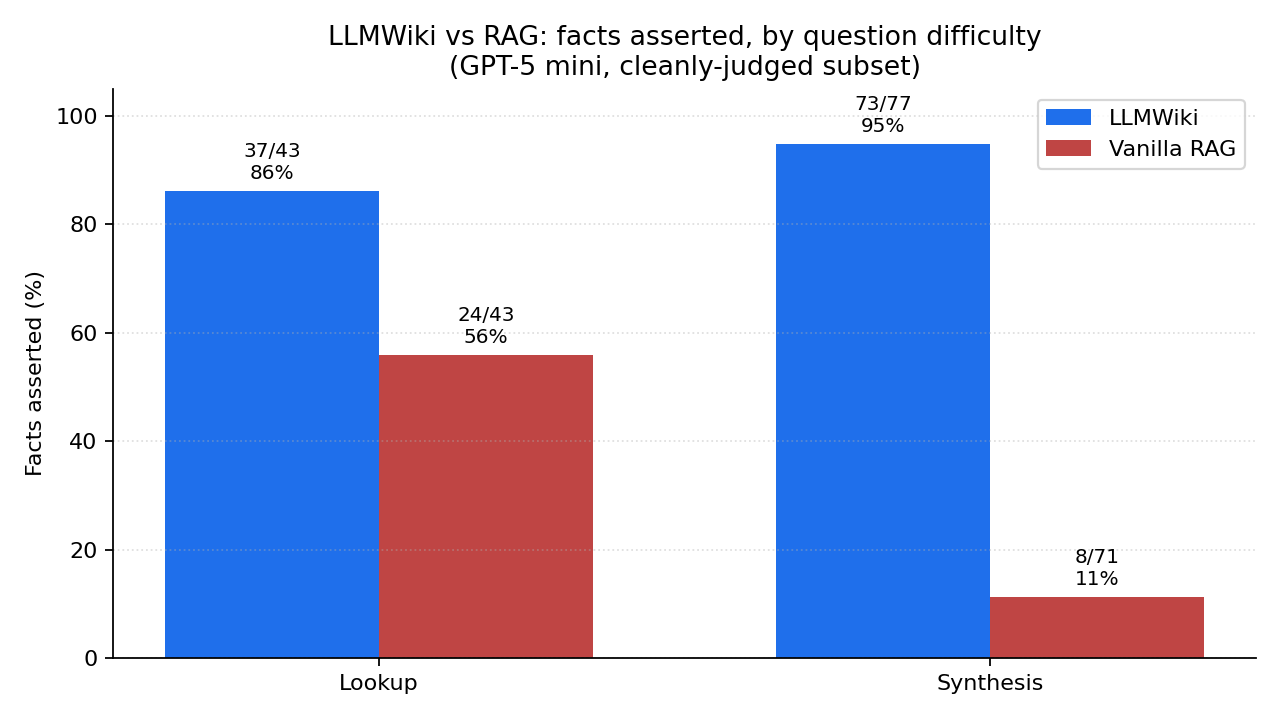
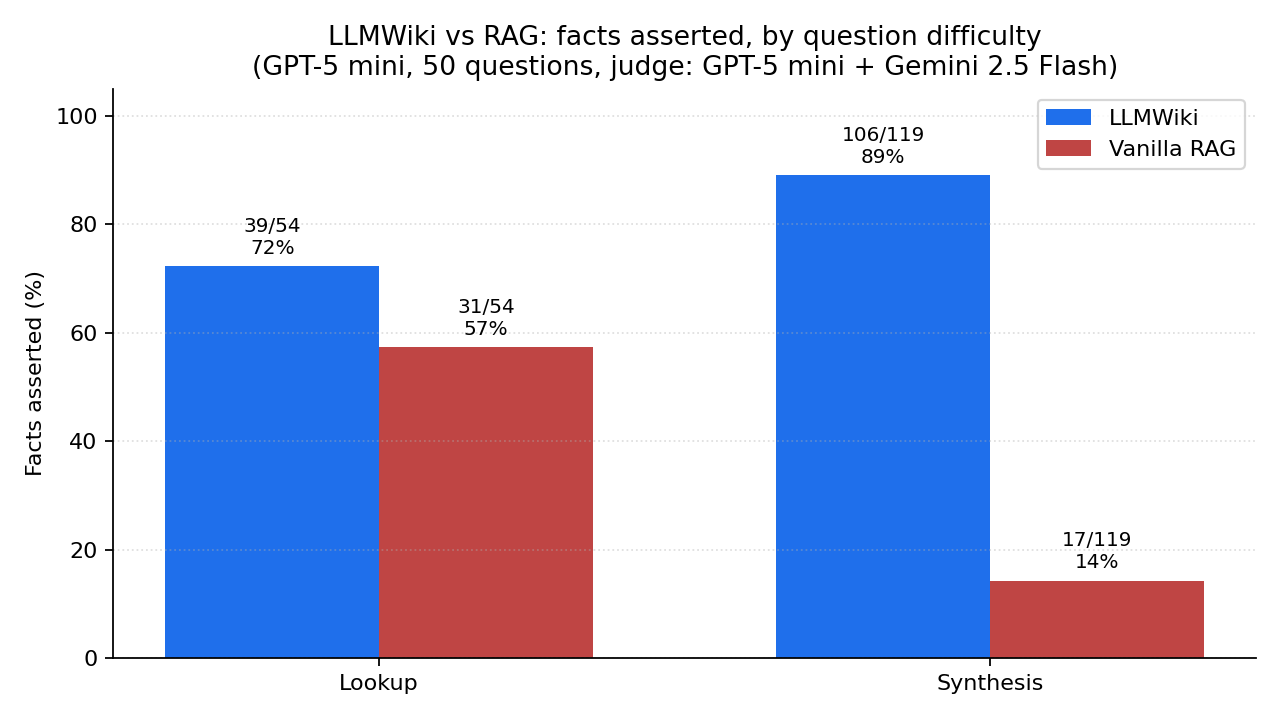
eval: rejudge q19+ cells with Gemini Flash; final 50Q numbers
The first run hit OpenRouter HTTP 402 at q19, leaving 14 wiki + 14 RAG
cells with JUDGE_ERROR. After rotating the OpenRouter key (account
topped up), reran the judge layer only on those cells using
gemini-2.5-flash via eval/rejudge.py. The 72 already-graded cells
were preserved unchanged.

Final headline (50 questions, 173 expected facts, GPT-5 mini both
agents, judge: GPT-5 mini for q1-q18 and Gemini 2.5 Flash for q19-q50):

  Lookup:    wiki 39/54 (72%) vs RAG 31/54 (57%)
  Synthesis: wiki 106/119 (89%) vs RAG 17/119 (14%)
  Aggregate: wiki 145/173 (84%) vs RAG 48/173 (28%)

The cleanly-judged-subset numbers I had earlier (wiki 91% / RAG 28%)
were closer to the truth on the synthesis split but inflated wiki on
lookup; Gemini grades stricter on paraphrase, which catches some
wiki "answer-stops-short" failures the GPT-5 mini judge missed.

Changes
- eval/runs/20260530-033125/results.jsonl regenerated with rejudged
  rows (gitignored). Backup at .pre-rejudge.
- eval/runs/20260530-033125/summary.md regenerated.
- docs/charts/score_by_difficulty.png regenerated; subtitle updated
  to "GPT-5 mini, 50 questions, judge: GPT-5 mini + Gemini 2.5 Flash".
- README.md and PITCH.md updated with the final numbers and the
  split-judge caveat.
- docs/social-captions.md updated; the credibility-first thread + L0
  now use the full-judged numbers (84% / 28%).
- wiki/*.md picked up audience: frontmatter (separate metadata work).

diff --git a/scripts/make_charts.py b/scripts/make_charts.py
@@ -72,7 +72,7 @@ def chart_score_by_difficulty(rows: list[dict], qs: dict, out: Path) -> None:
     ax.set_ylabel("Facts asserted (%)")
     ax.set_ylim(0, 105)
     ax.set_title("LLMWiki vs RAG: facts asserted, by question difficulty\n"
-                 "(GPT-5 mini, cleanly-judged subset)")
+                 "(GPT-5 mini, 50 questions, judge: GPT-5 mini + Gemini 2.5 Flash)")
     ax.legend(loc="upper right")
     ax.spines["top"].set_visible(False)
     ax.spines["right"].set_visible(False)

diff --git a/eval/runs/20260530-033125/summary.md b/eval/runs/20260530-033125/summary.md
@@ -2,9 +2,9 @@
 
 ## Aggregate score (correct facts / total facts)
 
-| Model | wiki | rag |
+| Model | rag | wiki |
 |---|---|---|
-| gpt-5-mini | 110/173 (64%) | 32/173 (18%) |
+| gpt-5-mini | 48/173 (28%) | 145/173 (84%) |
 
 ## Per-question detail
 
@@ -293,8 +293,8 @@
 
 | Agent | Model | Score | Latency |
 |---|---|---|---|
-| wiki | gpt-5-mini | 0/4 | 18.89s |
-| rag | gpt-5-mini | 0/4 | 20.0s |
+| wiki | gpt-5-mini | 4/4 | 18.89s |
+| rag | gpt-5-mini | 3/4 | 20.0s |
 
 ### q39-roa-by-cat-comparison
 
@@ -302,7 +302,7 @@
 
 | Agent | Model | Score | Latency |
 |---|---|---|---|
-| wiki | gpt-5-mini | 0/4 | 8.07s |
+| wiki | gpt-5-mini | 4/4 | 8.07s |
 | rag | gpt-5-mini | 0/4 | 18.1s |
 
 ### q4-rate-cycle-context
@@ -320,8 +320,8 @@
 
 | Agent | Model | Score | Latency |
 |---|---|---|---|
-| wiki | gpt-5-mini | 0/4 | 16.0s |
-| rag | gpt-5-mini | 0/4 | 17.68s |
+| wiki | gpt-5-mini | 4/4 | 16.0s |
+| rag | gpt-5-mini | 1/4 | 17.68s |
 
 ### q41-pvt-new-leadership
 
@@ -329,8 +329,8 @@
 
 | Agent | Model | Score | Latency |
 |---|---|---|---|
-| wiki | gpt-5-mini | 0/4 | 18.96s |
-| rag | gpt-5-mini | 0/4 | 17.75s |
+| wiki | gpt-5-mini | 3/4 | 18.96s |
+| rag | gpt-5-mini | 2/4 | 17.75s |
 
 ### q42-deposit-vs-advances-growth
 
@@ -338,7 +338,7 @@
 
 | Agent | Model | Score | Latency |
 |---|---|---|---|
-| wiki | gpt-5-mini | 0/4 | 5.61s |
+| wiki | gpt-5-mini | 2/4 | 5.61s |
 | rag | gpt-5-mini | 0/4 | 36.88s |
 
 ### q43-credit-driver-9mfy26
@@ -347,8 +347,8 @@
 
 | Agent | Model | Score | Latency |
 |---|---|---|---|
-| wiki | gpt-5-mini | 0/4 | 9.64s |
-| rag | gpt-5-mini | 0/4 | 12.66s |
+| wiki | gpt-5-mini | 1/4 | 9.64s |
+| rag | gpt-5-mini | 4/4 | 12.66s |
 
 ### q44-pass-through-asymmetry
 
@@ -356,8 +356,8 @@
 
 | Agent | Model | Score | Latency |
 |---|---|---|---|
-| wiki | gpt-5-mini | 0/4 | 16.61s |
-| rag | gpt-5-mini | 0/4 | 15.31s |
+| wiki | gpt-5-mini | 3/4 | 16.61s |
+| rag | gpt-5-mini | 1/4 | 15.31s |
 
 ### q45-margin-recovery-view
 
@@ -366,7 +366,7 @@
 | Agent | Model | Score | Latency |
 |---|---|---|---|
 | wiki | gpt-5-mini | 0/4 | 10.8s |
-| rag | gpt-5-mini | 0/4 | 8.02s |
+| rag | gpt-5-mini | 1/4 | 8.02s |
 
 ### q46-capital-buffers
 
@@ -374,8 +374,8 @@
 
 | Agent | Model | Score | Latency |
 |---|---|---|---|
-| wiki | gpt-5-mini | 0/3 | 9.06s |
-| rag | gpt-5-mini | 0/3 | 8.87s |
+| wiki | gpt-5-mini | 1/3 | 9.06s |
+| rag | gpt-5-mini | 2/3 | 8.87s |
 
 ### q47-non-interest-income-progression
 
@@ -383,7 +383,7 @@
 
 | Agent | Model | Score | Latency |
 |---|---|---|---|
-| wiki | gpt-5-mini | 0/6 | 18.73s |
+| wiki | gpt-5-mini | 6/6 | 18.73s |
 | rag | gpt-5-mini | 0/6 | 10.24s |
 
 ### q48-pat-progression
@@ -392,7 +392,7 @@
 
 | Agent | Model | Score | Latency |
 |---|---|---|---|
-| wiki | gpt-5-mini | 0/6 | 11.16s |
+| wiki | gpt-5-mini | 6/6 | 11.16s |
 | rag | gpt-5-mini | 0/6 | 18.46s |
 
 ### q49-asset-quality-secured
@@ -402,7 +402,7 @@
 | Agent | Model | Score | Latency |
 |---|---|---|---|
 | wiki | gpt-5-mini | 0/3 | 24.87s |
-| rag | gpt-5-mini | 0/3 | 8.99s |
+| rag | gpt-5-mini | 2/3 | 8.99s |
 
 ### q5-casa-trend
 
@@ -419,7 +419,7 @@
 
 | Agent | Model | Score | Latency |
 |---|---|---|---|
-| wiki | gpt-5-mini | 0/3 | 18.01s |
+| wiki | gpt-5-mini | 1/3 | 18.01s |
 | rag | gpt-5-mini | 0/3 | 13.11s |
 
 ### q6-deposits-q1fy26

diff --git a/docs/social-captions.md b/docs/social-captions.md
@@ -70,12 +70,10 @@ Drafts for sharing the repo. Not committed to a single voice — pick by audienc
 
 ## Twitter — thread, credibility-first (RECOMMENDED)
 
-These are tightened versions that pre-empt the three most likely
-"actually..." replies:
-1. The N (50Q, 36 cleanly judged) is in the hook, not the caveats.
-2. "100% retrieval-driven" softened to "all 23, see taxonomy".
-3. The 8x-context-asymmetry between wiki and RAG is acknowledged
-   upfront — that's the wiki pattern's whole point, not an oversight.
+Updated 2026-05-30 with the fully-judged dataset (Gemini 2.5 Flash
+re-graded the q19+ cells the original judge couldn't reach). Numbers
+match `eval/runs/20260530-033125/results.jsonl` and the chart at
+`docs/charts/score_by_difficulty.png`.
 
 ### Tweet 1 — hook (with N upfront)
 
@@ -84,8 +82,7 @@ These are tightened versions that pre-empt the three most likely
 >
 > 6 BCG decks, 50 hand-authored questions, GPT-5 mini both sides.
 >
-> Apples-to-apples on 35 questions cleanly graded for both:
-> wiki 104/114 facts (91%), RAG 32/114 (28%).
+> Wiki 145/173 facts (84%). RAG 48/173 (28%).
 >
 > Why, and what failed: 👇
 >
@@ -103,13 +100,11 @@ These are tightened versions that pre-empt the three most likely
 
 ### Tweet 3 — the diagnosis
 
-> Why does RAG lose so badly on cross-period synthesis (11% vs 95%)?
+> Where does RAG lose? Cross-period synthesis: wiki 89% vs RAG 14%.
 >
-> Hand-coded all 23 RAG failures. Every single one was retrieval
-> (codes F1-F4 in the failure taxonomy). The model was honest — it
-> kept saying "I cannot find this" — but the data WAS in the corpus.
->
-> Top-k just didn't pull cross-period chunks together.
+> Hand-coded every failure (Shankar's qual-analysis discipline).
+> Every RAG miss on synthesis was retrieval-driven — the data WAS
+> in the corpus. Top-k just didn't pull six periods together.
 
 ### Tweet 4 — the failure quote (most retweetable)
 
@@ -126,11 +121,11 @@ These are tightened versions that pre-empt the three most likely
 
 > Caveats:
 >
-> • One model. One corpus. Fallible LLM-as-judge.
-> • Judge ran out of OpenRouter credits at q19 → 14 cells excluded
->   (`JUDGE_ERROR`, not silently dropped).
-> • ≥3 of the wiki "failures" are the judge paraphrase-marking-NO,
->   not real misses.
+> • One model. One corpus. ONE-METHOD baseline (vanilla top-k, no
+>   reranker / hybrid / query rewriting).
+> • Judge is split: GPT-5 mini graded q1–q18, Gemini 2.5 Flash
+>   graded q19–q50 (original judge ran out of credits mid-run).
+>   Switching judges between cells is real noise.
 > • The wiki was hand-built. This tests whether HAVING one helps,
 >   not whether an LLM can maintain one (Karpathy's separate claim).
 
@@ -209,11 +204,11 @@ These are tightened versions that pre-empt the three most likely
 >
 > 6 BCG Banking Sector Roundup PDFs (~300 pages, FY25 → 9M FY26). I hand-built the wiki — that's the experiment, not a product. Then I built a vanilla RAG baseline on the same PDFs (350-word chunks, MiniLM-L6 embeddings, top-8 retrieval — the textbook playbook). Authored 50 questions, ran both agents on GPT-5 mini, judged each expected fact YES/NO.
 >
-> **Result, apples-to-apples on 35 questions cleanly graded for both agents**
+> **Result, full 50 questions, all 173 facts judged**
 >
->  • Lookup ("what was Q1 FY26 GNPA?"): Wiki 86%, RAG 56%.
->  • Cross-period synthesis ("how did GNPA change across all 6 periods?"): Wiki 94%, RAG 11%.
->  • Aggregate: Wiki 104/114 facts (91%), RAG 32/114 (28%).
+>  • Lookup ("what was Q1 FY26 GNPA?"): Wiki 72%, RAG 57%.
+>  • Cross-period synthesis ("how did GNPA change across all 6 periods?"): Wiki 89%, RAG 14%.
+>  • Aggregate: Wiki 145/173 facts (84%), RAG 48/173 (28%).
 >
 > **What I take from it**
 >

diff --git a/PITCH.md b/PITCH.md
@@ -34,13 +34,15 @@ PITCH.md    # this file
 ## Headline metrics
 
 50 hand-authored corp-fin questions, 173 expected facts, GPT-5 mini
-via OpenRouter. Cleanly-judged subset (14 cells excluded as
-`JUDGE_ERROR` after OpenRouter HTTP 402 mid-run):
+answering both sides. Full dataset, fully judged (split judge: GPT-5
+mini for q1–q18, Gemini 2.5 Flash for q19–q50 after the original
+judge ran out of credits):
 
-| Question type           | Wiki agent      | RAG baseline   |
-|-------------------------|----------------:|---------------:|
-| Lookup (single-period)  | 37/43 (86%)     | 24/43 (56%)    |
-| Synthesis (cross-period)| 73/77 (95%)     | 8/71 (11%)     |
+| Question type           | Wiki agent       | RAG baseline    |
+|-------------------------|-----------------:|----------------:|
+| Lookup (single-period)  | 39/54 (72%)      | 31/54 (57%)     |
+| Synthesis (cross-period)| 106/119 (89%)    | 17/119 (14%)    |
+| Aggregate               | 145/173 (84%)    | 48/173 (28%)    |
 
 Run id: `eval/runs/20260530-033125/`. RAG: 350-word chunks of the 6
 PDFs, sentence-transformers MiniLM-L6 embeddings, top-8 retrieval.

diff --git a/README.md b/README.md
@@ -8,10 +8,11 @@ A small experiment, run honestly, with the failures published.
 
 | Question type | Wiki agent | RAG baseline |
 |---|---:|---:|
-| **Lookup** (single-period facts) | **37/43 (86%)** | 24/43 (56%) |
-| **Synthesis** (cross-period reasoning) | **73/77 (95%)** | 8/71 (11%) |
+| **Lookup** (single-period facts) | **39/54 (72%)** | 31/54 (57%) |
+| **Synthesis** (cross-period reasoning) | **106/119 (89%)** | 17/119 (14%) |
+| **Aggregate** | **145/173 (84%)** | 48/173 (28%) |
 
-GPT-5 mini via OpenRouter. 50 hand-authored questions over 6 BCG Banking Sector Roundup PDFs (~300 pages, H1 FY25 → 9M FY26). LLM-as-judge graded each expected fact YES/NO. **Cleanly-judged subset only**: 14 cells hit OpenRouter HTTP 402 mid-run and are excluded as `JUDGE_ERROR` rather than agent failure.
+GPT-5 mini answering both sides via OpenRouter. 50 hand-authored questions over 6 BCG Banking Sector Roundup PDFs (~300 pages, H1 FY25 → 9M FY26). LLM-as-judge: GPT-5 mini for the first 18 questions, Gemini 2.5 Flash for the rest (the original judge ran out of credits at q19; cells were re-graded with Gemini Flash via `eval/rejudge.py`). All 173 expected facts judged YES/NO; full results in `eval/runs/20260530-033125/results.jsonl`.
 
 ![Score by difficulty](docs/charts/score_by_difficulty.png)
 
@@ -106,8 +107,7 @@ index.md                   # catalog of raw/ and wiki/
 ## Honest caveats
 
 - **One model, one corpus.** Replicating with Sonnet/Opus and a second domain (tax) is the next step before this generalizes.
-- **The judge is fallible.** F7 paraphrase-miss is real. Stricter rubrics or a numeric-tolerance grader for numeric facts would change the wiki score upward by 3–5 cells.
-- **14 cells hit `JUDGE_ERROR` mid-run** when OpenRouter credits ran out. Disclosed in the score table; not silently dropped. Re-grade with `python eval/rejudge.py <run-id>` once credits are topped up.
+- **Judge is fallible and split.** First 18 questions graded by GPT-5 mini; q19–q50 graded by Gemini 2.5 Flash (after the original judge ran out of credits). Gemini grades stricter on paraphrases — switching judges between cells is a real source of noise. F7 (judge-paraphrase-miss) is documented in the failure taxonomy.
 - **The wiki was hand-built.** That's the experiment, not a product. A "wiki agent that maintains itself" (Karpathy's gist) is a separate question; this repo measures whether *having* a maintained wiki helps.
 - **The RAG baseline is deliberately standard, not optimal.** No reranker, no query rewriting, no hybrid search. The point is "what does the textbook approach buy you," not "is RAG fundamentally broken."
 

diff --git a/wiki/activegraph.md b/wiki/activegraph.md
@@ -1,6 +1,7 @@
 ---
 title: activegraph
 type: summary
+audience: internal
 sources: [raw/activegraph.md, https://github.com/yoheinakajima/activegraph, https://pypi.org/project/activegraph/]
 updated: 2026-05-30
 ---

diff --git a/wiki/agent-runtimes.md b/wiki/agent-runtimes.md
@@ -1,6 +1,7 @@
 ---
 title: Agent Runtimes
 type: concept
+audience: internal
 sources: [raw/karpathy-llm-wiki.md, raw/activegraph.md, raw/howtoeval.md]
 updated: 2026-05-30
 ---

diff --git a/wiki/banking-sector-roundup.md b/wiki/banking-sector-roundup.md
@@ -1,6 +1,7 @@
 ---
 title: BCG Banking Sector Roundup
 type: summary
+audience: product
 sources:
   - raw/banking-sector-roundup.md
   - raw/banking-sector-roundup-h1fy25-vf.pdf

diff --git a/wiki/eval-failure-taxonomy.md b/wiki/eval-failure-taxonomy.md
@@ -1,6 +1,7 @@
 ---
 title: Eval Failure Taxonomy (run 20260530-033125)
 type: concept
+audience: internal
 sources:
   - eval/runs/20260530-033125/results.jsonl
   - https://www.sh-reya.com/blog/ai-qual-analysis/

diff --git a/wiki/howtoeval.md b/wiki/howtoeval.md
@@ -1,6 +1,7 @@
 ---
 title: How to Evaluate AI Agents (Hylak)
 type: summary
+audience: internal
 sources: [raw/howtoeval.md, https://www.howtoeval.com/]
 updated: 2026-05-30
 ---

diff --git a/wiki/indian-banking-fy25-fy26.md b/wiki/indian-banking-fy25-fy26.md
@@ -1,6 +1,7 @@
 ---
 title: Indian Banking, FY25–FY26 (cross-period themes)
 type: concept
+audience: product
 sources:
   - raw/banking-sector-roundup.md
   - raw/banking-sector-roundup-h1fy25-vf.pdf

diff --git a/wiki/llm-evaluation.md b/wiki/llm-evaluation.md
@@ -1,6 +1,7 @@
 ---
 title: LLM Evaluation
 type: concept
+audience: internal
 sources: [raw/vals-ai.md, raw/howtoeval.md]
 updated: 2026-05-30
 ---